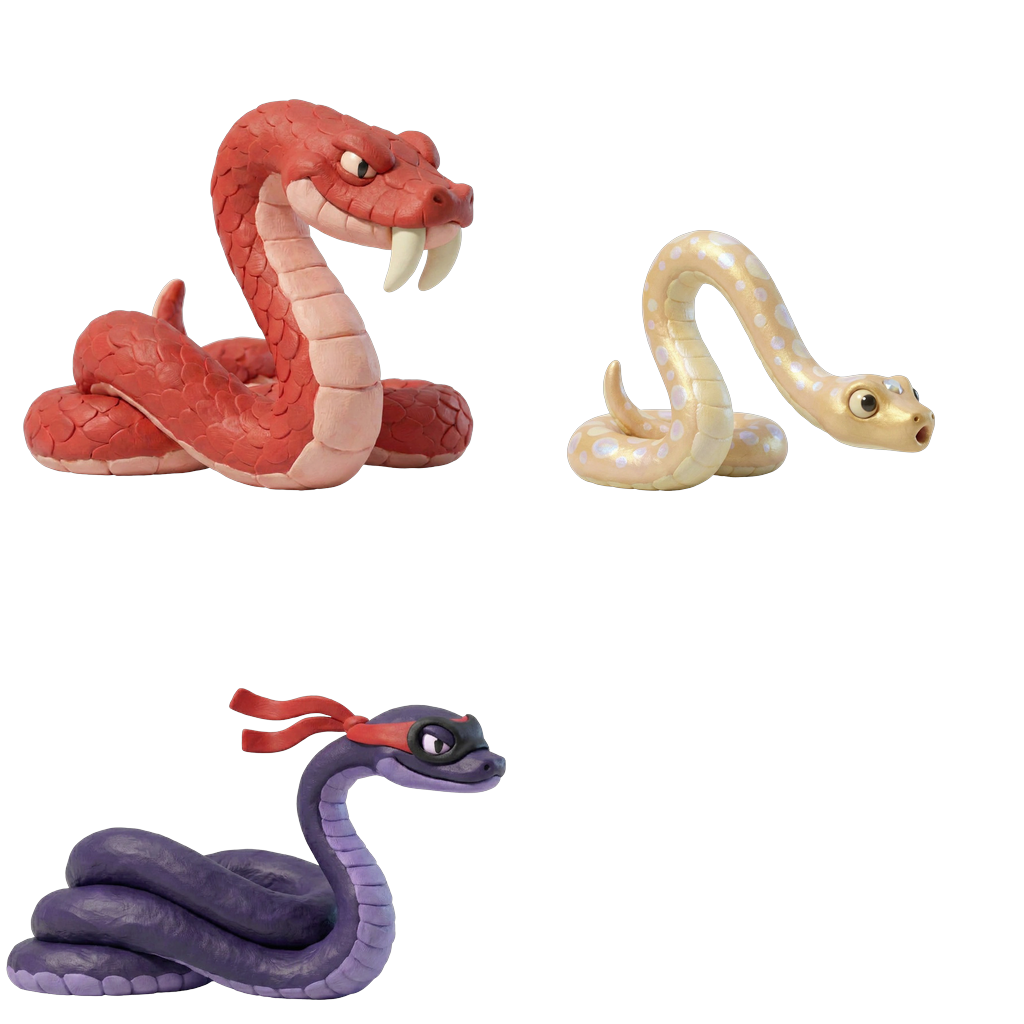
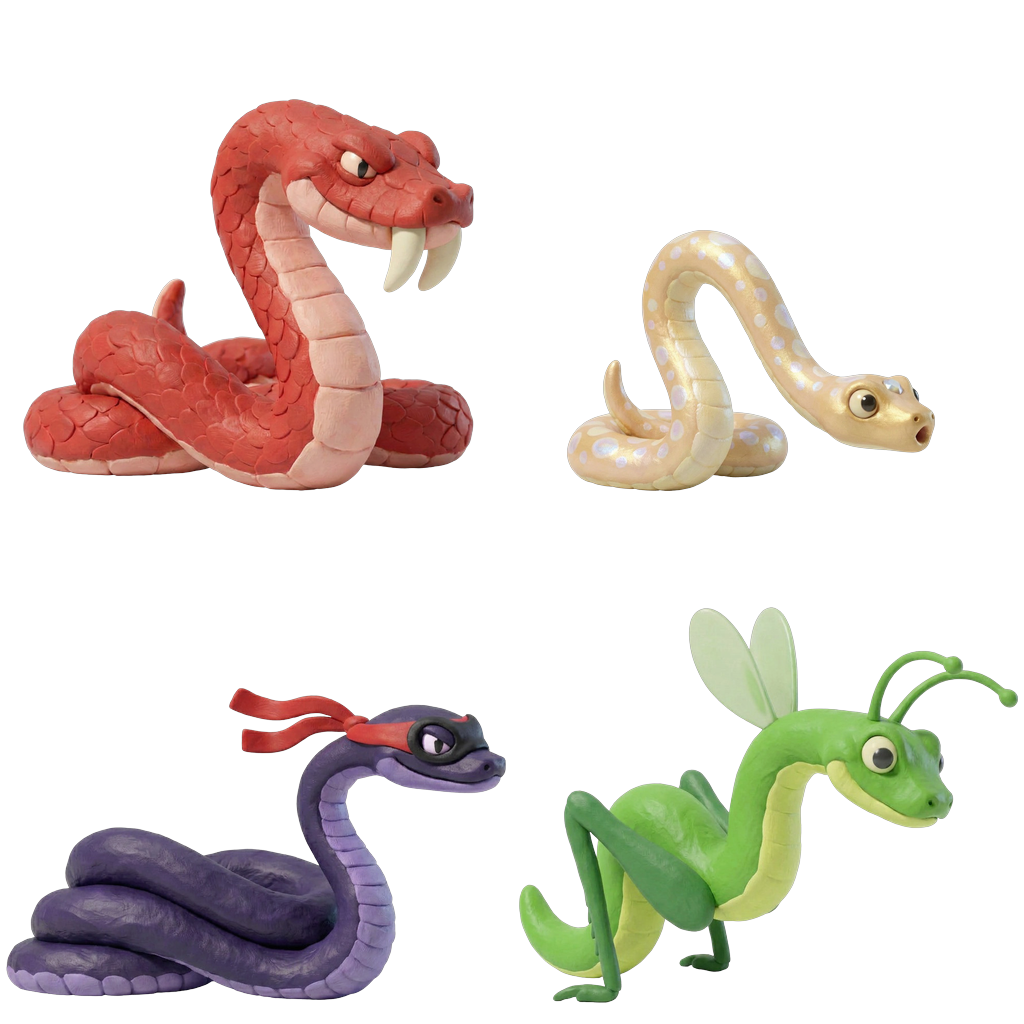
Révision 6 courante : le serpent sauterelle, avec son dessin
Mesure acceptée par le parent (vie 0,9 ; expert 52 → 60 %, moyen vague
9,48 → 9,89, petit 7,33 → 7,42 sur 200 parties). Nom du fils gardé :
« Serpent sauterelle ». Dessin en pâte à modeler dans la quatrième case
des nouveaux serpents (306 crédits) ; les trois autres cases sont
identiques au pixel près. Page « Nouveautés » du site, bilan, plan,
architecture.

Claude-Session: https://claude.ai/code/session_0153huJungw2KXDp7mHDZLQs

Changed region(s): [[0.5, 0.5938, 1.0, 1.0]]

diff --git a/deploy/discoveryCopy.ts b/deploy/discoveryCopy.ts
@@ -192,6 +192,10 @@ export const DISCOVERY_PAGES: readonly DiscoveryPage[] = [
     lead: 'Voici ce qui vient d’arriver dans le jeu. Beaucoup d’idées viennent de l’enfant qui l’a inventé.',
     blocks: [
       {
+        heading: 'Le serpent sauterelle',
+        text: `Dans une nouvelle « ${FR.aventureClassique} », à partir de la vague ${NEWCOMERS.grasshopper.fromWave}, un serpent sauterelle saute une fois par-dessus tes alliés et retombe derrière eux. Ensuite, il marche vers le cristal. Garde un allié près du cristal pour l’attendre.`,
+      },
+      {
         heading: 'Trois nouveaux serpents',
         text: `Pour les voir, commence une nouvelle partie : touche « ${FR.aventureClassique} », puis « ${FR.laGrandeAventure12Vagues} ». Ils arrivent à partir de la vague ${NEWCOMERS.ninja.fromWave}. Le serpent ninja court vite : au premier coup, il disparaît et revient derrière celui qui l’a frappé. Les grands crocs mordent deux fois plus fort : pose un ${ALLY_FR.bouclier} devant. Le serpent rare tombe vite, mais sa morsure fait tomber une ${ALLY_FR.massue} d’un coup. Pose un ${ALLY_FR.archer} : il peut le toucher avant qu’il morde.`,
       },
@@ -219,6 +223,10 @@ export const DISCOVERY_PAGES: readonly DiscoveryPage[] = [
     heading: 'The camp keeps growing.',
     lead: 'Here is what just arrived in the game. Many of the ideas come from the child who invented it.',
     blocks: [
+      {
+        heading: 'The Grasshopper Snake',
+        text: `In a new “${EN.aventureClassique}”, from wave ${NEWCOMERS.grasshopper.fromWave} on, a Grasshopper Snake leaps once over your allies and lands behind them. Then it walks on to the crystal. Keep an ally near the crystal to wait for it.`,
+      },
       {
         heading: 'Three new snakes',
         text: `To see them, start a new game: tap “${EN.aventureClassique}”, then “${EN.laGrandeAventure12Vagues}”. They show up from wave ${NEWCOMERS.ninja.fromWave} on. The Ninja Snake runs fast: on the first hit, it vanishes and comes back behind whoever struck it. Big Fangs bites twice as hard: place a ${ALLY_EN.bouclier} in front. The Rare Snake falls fast, but its bite knocks out a ${ALLY_EN.massue} in one go. Place an ${ALLY_EN.archer}: it can hit the snake before it bites.`,

diff --git a/tests/balance-revision-6.test.ts b/tests/balance-revision-6.test.ts
@@ -65,9 +65,10 @@ function stage(allies: readonly { x: number; y: number }[], x = 400, y = 324) {
   return { game, snake };
 }
 
-test('la révision 6 existe sans être courante, et ne change que la sauterelle', () => {
+test('la révision 6 est la révision courante, et ne change que la sauterelle', () => {
   assert.deepEqual([...BALANCE_REVISIONS], [1, 2, 3, 4, 5, 6]);
-  assert.equal(CURRENT_BALANCE_REVISION, 5);
+  // Accepted by the parent on 18 November 2026 after 600 simulated games.
+  assert.equal(CURRENT_BALANCE_REVISION, 6);
   for (const kind of Object.keys(kinds) as Kind[])
     assert.equal(balanceRecruitPrice(kind, 6), balanceRecruitPrice(kind, 5), kind);
   assert.deepEqual(lateEggRule(6), lateEggRule(5));
@@ -87,7 +88,7 @@ test('la révision 6 existe sans être courante, et ne change que la sauterelle'
     }
   assert.equal(changed, 6, 'une sauterelle par vague, des vagues 7 à 12');
   const { hp, speed, damage } = enemies.grasshopper;
-  assert.deepEqual([hp, speed, damage], [1.9, 1, 1]);
+  assert.deepEqual([hp, speed, damage], [0.9, 1, 1]);
   assert.equal(GRASSHOPPER_LEAPS, 1);
   assert.equal(leapsOf('grasshopper'), 1);
   assert.equal(leapsOf('shadow'), 0);

diff --git a/src/art.ts b/src/art.ts
@@ -105,7 +105,7 @@ export const ART_SHEETS = [
     attackUrl: mutantsAttackUrl,
   },
   { key: 'props-three-bridges', url: threeBridgesPropsUrl, frameWidth: 512, frameHeight: 512 },
-  // Three cells for now; the fourth is empty.
+  // The three newcomers of the fourth revision and the grasshopper snake of the sixth.
   {
     key: 'serpents-nouveaux',
     url: newSnakesUrl,
@@ -205,8 +205,7 @@ export const ENEMY_ART: Record<EnemyKind, ArtFrame> = {
   fang: frame('serpents-nouveaux', 0),
   rare: frame('serpents-nouveaux', 1),
   shadow: frame('serpents-nouveaux', 2),
-  // No drawing yet: the runner's picture until the parent agrees to the expense of one.
-  grasshopper: frame('enemies-organic', 1),
+  grasshopper: frame('serpents-nouveaux', 3),
 };
 export const KING_ART = frame('serpents-family', 3);
 export const EGG_ART = frame('enemies-mechanical', 3);

diff --git a/tests/balance-revision-5.test.ts b/tests/balance-revision-5.test.ts
@@ -59,10 +59,10 @@ function meet(revision: 4 | 5, kind: EnemyKind, wave: number) {
   throw new Error(`aucun ${kind} dans la vague ${wave}`);
 }
 
-test('la révision 5 est la révision courante, et ne change que le ninja', () => {
-  // The sixth (the grasshopper snake) exists but is not current until the parent agrees.
+test('la révision 5 ne change que le ninja', () => {
+  // The sixth (the grasshopper snake) is the current one since 18 November 2026.
   assert.deepEqual([...BALANCE_REVISIONS], [1, 2, 3, 4, 5, 6]);
-  assert.equal(CURRENT_BALANCE_REVISION, 5);
+  assert.equal(CURRENT_BALANCE_REVISION, 6);
   for (const kind of Object.keys(kinds) as Kind[])
     assert.equal(balanceRecruitPrice(kind, 5), balanceRecruitPrice(kind, 4), kind);
   assert.deepEqual(lateEggRule(5), lateEggRule(4));

diff --git a/tests/road-clarity.test.ts b/tests/road-clarity.test.ts
@@ -53,8 +53,8 @@ test('la variante au casque regarde dans le sens inverse de son image source', a
   assert.equal(spriteFlip('snake', 'normal', 1), false);
   assert.equal(spriteFlip('snake', 'normal', -1), true);
   assert.equal(spriteFlip('snake', 'spitter', 1), true);
-  // The three newcomers are drawn facing right, like the snake family (18 November 2026).
-  for (const variant of ['fang', 'rare', 'shadow'] as const) {
+  // The newcomers are drawn facing right, like the snake family (18 November 2026).
+  for (const variant of ['fang', 'rare', 'shadow', 'grasshopper'] as const) {
     assert.equal(spriteFlip('snake', variant, 1), false, variant);
     assert.equal(spriteFlip('snake', variant, -1), true, variant);
   }

diff --git a/tests/fixtures/engine-traces.ts b/tests/fixtures/engine-traces.ts
@@ -14,7 +14,7 @@ export const expectedTraces: Readonly<Record<string, string>> = Object.freeze({
   // newcomers in the waves, this player falls before the king.
   'classique r4': 'lost w12 b0 g91 k164 s15221 77b7d6fecda87bab798652cd',
   'classique r5': 'lost w12 b0 g54 k158 s13535 c9fddf06f42f2d9db877e231',
-  'classique r6': 'won w12 b42 g437 k175 s15068 c8bb5244ec50865732c5d66d',
+  'classique r6': 'lost w12 b0 g67 k172 s13815 cbaddd082ea0d0d44a9a9b6f',
   'classique sans règles tactiques': 'won w12 b100 g567 k200 s13873 3eeda8696186b90a12ead3ce',
   'mission refuge': 'won w3 b100 g323 k25 s1838 ba997879695c6fcf0aa1a91d',
   'défi refuge-moyen r2': 'won w3 b100 g401 k44 s2568 bc0c8fb2412a1402f1b8aae1',

diff --git a/src/balanceRevision.ts b/src/balanceRevision.ts
@@ -13,7 +13,7 @@ import * as TEXT from './texts/fr/battle.ts';
  */
 export const BALANCE_REVISIONS = [1, 2, 3, 4, 5, 6] as const;
 export type BalanceRevision = (typeof BALANCE_REVISIONS)[number];
-export const CURRENT_BALANCE_REVISION: BalanceRevision = 5;
+export const CURRENT_BALANCE_REVISION: BalanceRevision = 6;
 export const isBalanceRevision = (value: unknown): value is BalanceRevision =>
   (BALANCE_REVISIONS as readonly unknown[]).includes(value);
 /** From the third on, a revision exists in the great adventure only: no expedition has it. */

diff --git a/src/enemies.ts b/src/enemies.ts
@@ -154,8 +154,7 @@ export const enemies = {
   // The newcomer of the sixth balance revision (idea of the child): leaps over the line once.
   grasshopper: {
     name: TEXT.serpentSauterelle,
-    // It takes the place of a shelled snake in its wave, and keeps that snake's health.
-    hp: 1.9,
+    hp: 0.9,
     speed: 1,
     damage: 1,
     range: 44,

diff --git a/scripts/assemble-new-snakes.py b/scripts/assemble-new-snakes.py
@@ -1,8 +1,9 @@
 """Assemble serpents-nouveaux (idle) and serpents-nouveaux-attack from the Magnific cut-outs.
 
 Usage: python3 scripts/assemble-new-snakes.py <folder of cut-outs> <output folder>
-Inputs: idle-cut.png (the idle sheet, background removed), fang-cut.png, rare-cut.png and
-ninja-cut.png (one attacking figure each, background removed). See
+Inputs: idle-cut.png (the idle sheet, background removed), fang-cut.png, rare-cut.png,
+ninja-cut.png and grasshopper-cut.png (one attacking figure each, background removed), and
+grasshopper-idle-cut.png (the grasshopper snake at rest, drawn alone). See
 public/assets/illustrated/PROVENANCE-SERPENTS-NOUVEAUX-2026-11-18.md.
 
 Idle: the three cells of the cut sheet, each moved down so that its bottom matches the
@@ -16,9 +17,12 @@ import numpy as np
 
 work, out = sys.argv[1], sys.argv[2]
 TH, CELL, MARGIN = 60, 512, 6
-BOTTOMS = [491, 491, 488]  # bottoms of the provisional cells: fang, rare, ninja
-ORIGINS = [(0, 0), (512, 0), (0, 512)]
-ATTACKS = ['fang-cut', 'rare-cut', 'ninja-cut']
+BOTTOMS = [491, 491, 488, 491]  # fang, rare, ninja as the provisional cells; grasshopper
+ORIGINS = [(0, 0), (512, 0), (0, 512), (512, 512)]
+ATTACKS = ['fang-cut', 'rare-cut', 'ninja-cut', 'grasshopper-cut']
+# The grasshopper snake (sixth revision) was drawn alone, not on the sheet: its picture at rest
+# is scaled to this height, about that of the other snakes with its antennae.
+GRASSHOPPER_HEIGHT = 420
 
 def bbox(a):
     ys, xs = np.where(a > TH)
@@ -34,8 +38,23 @@ def coil(alpha):
 idle = Image.open(f'{work}/idle-cut.png').convert('RGBA')
 rest = Image.new('RGBA', (1024, 1024), (0, 0, 0, 0))
 attack = Image.new('RGBA', (1024, 1024), (0, 0, 0, 0))
+def alone(path):
+    """A figure drawn alone, in a cell of its own, centred, at GRASSHOPPER_HEIGHT."""
+    figure = Image.open(path).convert('RGBA')
+    figure = figure.crop(bbox(np.array(figure)[:, :, 3]))
+    w, h = figure.size
+    scale = min(GRASSHOPPER_HEIGHT / h, (CELL - 2 * MARGIN) / w)
+    figure = figure.resize((round(w * scale), round(h * scale)), Image.LANCZOS)
+    cell = Image.new('RGBA', (CELL, CELL), (0, 0, 0, 0))
+    cell.paste(figure, ((CELL - figure.width) // 2, CELL - figure.height), figure)
+    return cell
+
 for index, ((ox, oy), bottom, name) in enumerate(zip(ORIGINS, BOTTOMS, ATTACKS)):
-    cell = idle.crop((ox, oy, ox + CELL, oy + CELL))
+    cell = (
+        alone(f'{work}/grasshopper-idle-cut.png')
+        if index == 3
+        else idle.crop((ox, oy, ox + CELL, oy + CELL))
+    )
     a = np.array(cell)[:, :, 3]
     x0, y0, x1, y1 = bbox(a)
     dy = bottom - y1

diff --git a/docs/BILAN-REVISION-6.md b/docs/BILAN-REVISION-6.md
@@ -1,0 +1,55 @@
+# Bilan — révision 6 : le serpent sauterelle (18 novembre 2026)
+
+## Décision
+
+Idée du fils : des serpents « sauterelles » qui sautent derrière les lignes ; ensuite, si le
+cristal est le plus proche, ils vont au cristal, sinon ils attaquent les personnages entre le
+cristal et eux ; après le saut, ils marchent normalement. Le parent a choisi de commencer par
+elle, a lu la mesure et l'a acceptée le 18 novembre, avec la vie 0,9. Nom gardé :
+« Serpent sauterelle » (« Grasshopper Snake »).
+
+## Ce qui change
+
+- Dans une nouvelle grande aventure : un serpent sauterelle par vague, dès la vague 7. Il
+  prend la place 9 de la vague, qui était une Carapace.
+- Il marche comme les autres jusqu'à ce qu'un allié de sa route soit à 110 devant lui. Il
+  saute alors une fois et se pose 40 plus loin que l'allié de sa route le plus près du
+  cristal, jamais sur le cristal, un rocher ni la rivière. Ensuite il marche normalement :
+  il mord les alliés qu'il croise, ou entre dans le cristal.
+- À l'écran : un arc en pointillés de son départ à son arrivée, et un petit son de bond.
+  Fiche « Il saute une fois par-dessus tes alliés » dans « Dangers » et « Tous les
+  serpents ». Page « Nouveautés » du site.
+- Dessin en pâte à modeler dans la quatrième case de la planche des nouveaux serpents
+  (`PROVENANCE-SERPENTS-NOUVEAUX-2026-11-18.md`, 306 crédits).
+- Les parties, codes (`AVENTURE-7-…`) et sauvegardes (version 12) d'avant gardent leurs
+  règles ; une nouvelle partie a le code `AVENTURE-8-…` et une sauvegarde de version 13.
+  Missions, défis et voyage ne changent pas.
+
+## Mesure (200 grandes aventures par joueur automatique, mêmes départs)
+
+| Joueur                 | Révision 5 | Sauterelle vie 0,9 (retenue) | Essai vie 1,9 |
+| ---------------------- | ---------- | ---------------------------- | ------------- |
+| expert : victoires     | 52 %       | 60 %                         | 70 %          |
+| moyen : vague atteinte | 9,48       | 9,89                         | 9,87          |
+| petit : vague atteinte | 7,33       | 7,42                         | 7,38          |
+
+Le jeu devient un peu plus facile : la sauterelle remplace une Carapace (vie 1,9 et armure),
+et, seule dans le camp après son saut, elle se fait battre vite. Sur 200 parties, le hasard
+fait varier les victoires d'environ 7 points ; l'écart de l'expert est à cette limite. Lui
+donner la vie de la Carapace rendait le jeu encore plus facile (70 %). Commande :
+`REVISION=5|6 CLASSIC=200 PROFILES=expert,moyen,petit node --experimental-strip-types
+scripts/balance-modes.mjs <sortie.json> 0 1 <grande-aventure.json>` (rapports dans
+`artifacts/sauterelle/`, hors de Git).
+
+## Vérifié
+
+- Tests (`tests/balance-revision-6.test.ts`) : révision, vagues (une par vague de 7 à 12,
+  rien d'autre ne change), saut derrière l'allié de sa route le plus près du cristal, une
+  seule fois, pas de saut sans allié devant elle ni pour un autre serpent ou King Snake,
+  jamais sur le cristal, un rocher ou la rivière, codes et sauvegardes. Les parties de
+  référence des révisions 1 à 5 sont inchangées ; une partie de révision 6 est ajoutée.
+- Les trois autres serpents de la planche sont identiques au pixel près.
+
+## Pas vérifié
+
+- Rien n'a été joué à la main, sur téléphone, ni avec les enfants.

diff --git a/public/assets/illustrated/PROVENANCE-SERPENTS-NOUVEAUX-2026-11-18.md b/public/assets/illustrated/PROVENANCE-SERPENTS-NOUVEAUX-2026-11-18.md
@@ -1,8 +1,9 @@
 # Trois nouveaux serpents — dessins du 18 novembre 2026
 
 Fichiers : `src/assets/illustrated/serpents-nouveaux.webp` (repos) et
-`serpents-nouveaux-attack.webp` (attaque), 1024×1024 px, quatre cases de 512 px, la
-quatrième vide, WebP sans perte, fond transparent. Ils remplacent les images provisoires du
+`serpents-nouveaux-attack.webp` (attaque), 1024×1024 px, quatre cases de 512 px (la
+quatrième, vide jusqu'au soir du 18 novembre, porte le serpent sauterelle), WebP sans perte,
+fond transparent. Ils remplacent les images provisoires du
 16 novembre (`PROVENANCE-SERPENTS-PROVISOIRES-2026-11.md`).
 
 Décision du parent le 18 novembre 2026 : budget libre pour dessiner les trois serpents du
@@ -64,3 +65,21 @@ langue ; aucune dent sauf les deux crocs arrondis des grands crocs (vérifié en
   ennemis, comme le serpent à sonnette.
 - Les droits d'utilisation suivent les conditions du compte Magnific ; aucune exclusivité ou
   protection juridique n'est garantie.
+
+## Quatrième case : le serpent sauterelle (révision 6)
+
+Accord du parent le 18 novembre 2026 pour un dessin d'environ 300 crédits ; nom du fils gardé :
+« Serpent sauterelle ». Serpent vert feuille au ventre citron, deux antennes, deux grandes
+pattes de sauterelle vert foncé, deux petites ailes translucides ; il regarde vers la droite.
+
+- Repos, dessiné seul : deux variantes, retenue
+  [gOmwBHaSXO](https://www.magnific.com/app/creation/gOmwBHaSXO) (détourage u5WHzxWQLD) ;
+  écartée O6E4hrDynm (presque la même, œil plus petit).
+- Attaque, un bond court : retenue
+  [BhNIyidoQR](https://www.magnific.com/app/creation/BhNIyidoQR) (pattes tendues, tête en
+  avant ; détourage cpSVsIs0eP) ; écartée ksexVB416B (ne bouge presque pas).
+- Assemblage : la figurine de repos est mise à 420 px de haut, centrée, posée sur la ligne de
+  base (bas à 491) ; l'attaque a autant de pâte que le repos (0,99). Les trois autres cases
+  sont identiques au pixel près.
+- **Dépense : 306 crédits** (4 images × 75 ; 2 détourages × 3). Solde vérifié :
+  8 797 → 8 491.

diff --git a/docs/ARCHITECTURE.md b/docs/ARCHITECTURE.md
@@ -543,6 +543,20 @@ serpent se lit selon la révision de la partie (`abilityOf(espèce, révision)`,
 « Dangers » et l'index ouvert depuis « Dangers » passent celle de la partie ; l'index ouvert
 hors partie (Favoris) prend la révision courante.
 
+### Révision 6 — 18 novembre 2026
+
+Le serpent sauterelle du fils saute la ligne ([bilan](BILAN-REVISION-6.md)). La révision 6
+garde tout de la révision 5 et ajoute une espèce, `grasshopper` : une par vague dès la vague 7,
+à la place 9 (`NEWCOMERS.grasshopper` dans `waves.ts`, qui remplace une Carapace). Elle naît
+avec un saut (`leaps`, `leapsOf`). À chaque tour, avant de chercher qui mordre,
+`leapOverLine` (`engine/leap.ts`) la fait sauter si un allié de sa route (`band: 60` en
+hauteur) est à moins de `reach: 110` devant elle : elle se pose `behind: 40` plus loin que
+l'allié de sa route le plus près du cristal, jamais à moins de 60 du cristal ni sur un
+rocher ou la rivière (places plus proches essayées, comme la téléportation du ninja). La
+pose et le recalage de l'étape du chemin sont partagés avec le ninja (`engine/landing.ts`).
+Ensuite elle marche comme les autres. L'effet `leap` donne l'arc en pointillés
+(`effectTrails.ts`) et son son. Code de départ : règle 8. Camp : version 13.
+
 ## Choix du moteur — réévalué le 11 novembre 2026
 
 Phaser 3 reste le bon choix, et la question ne se rouvre pas sans mesure sur le téléphone.
